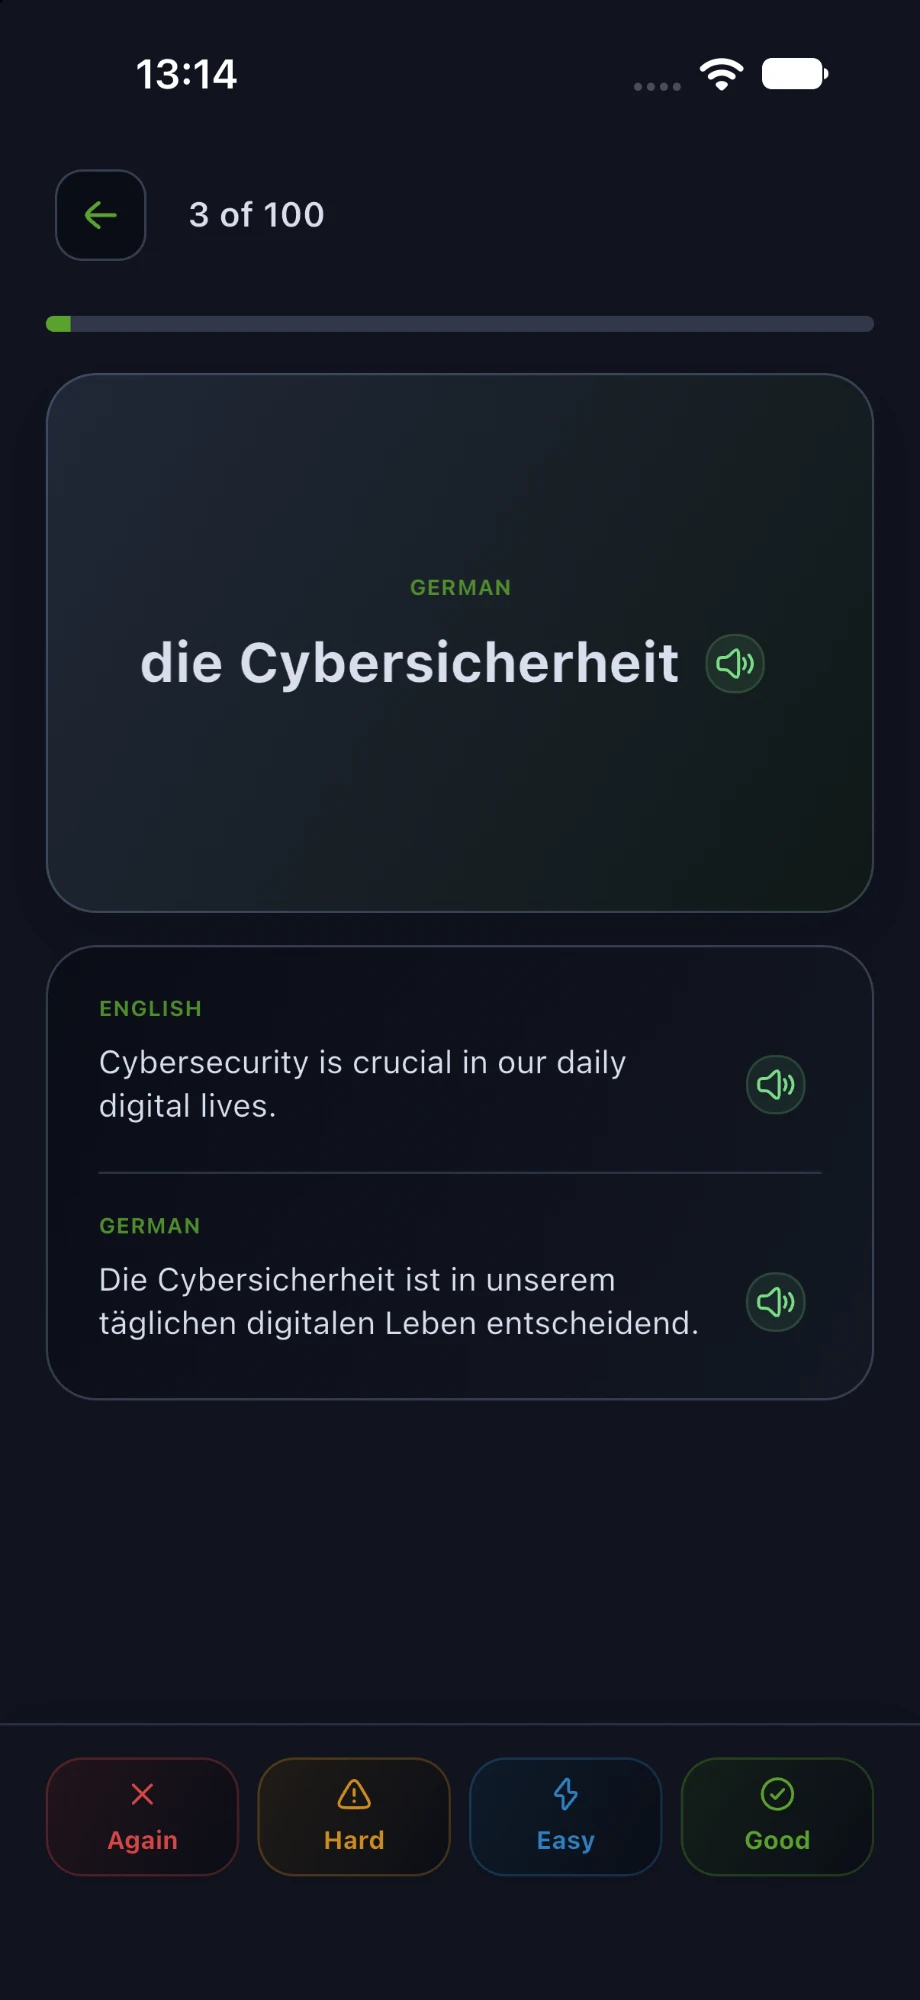
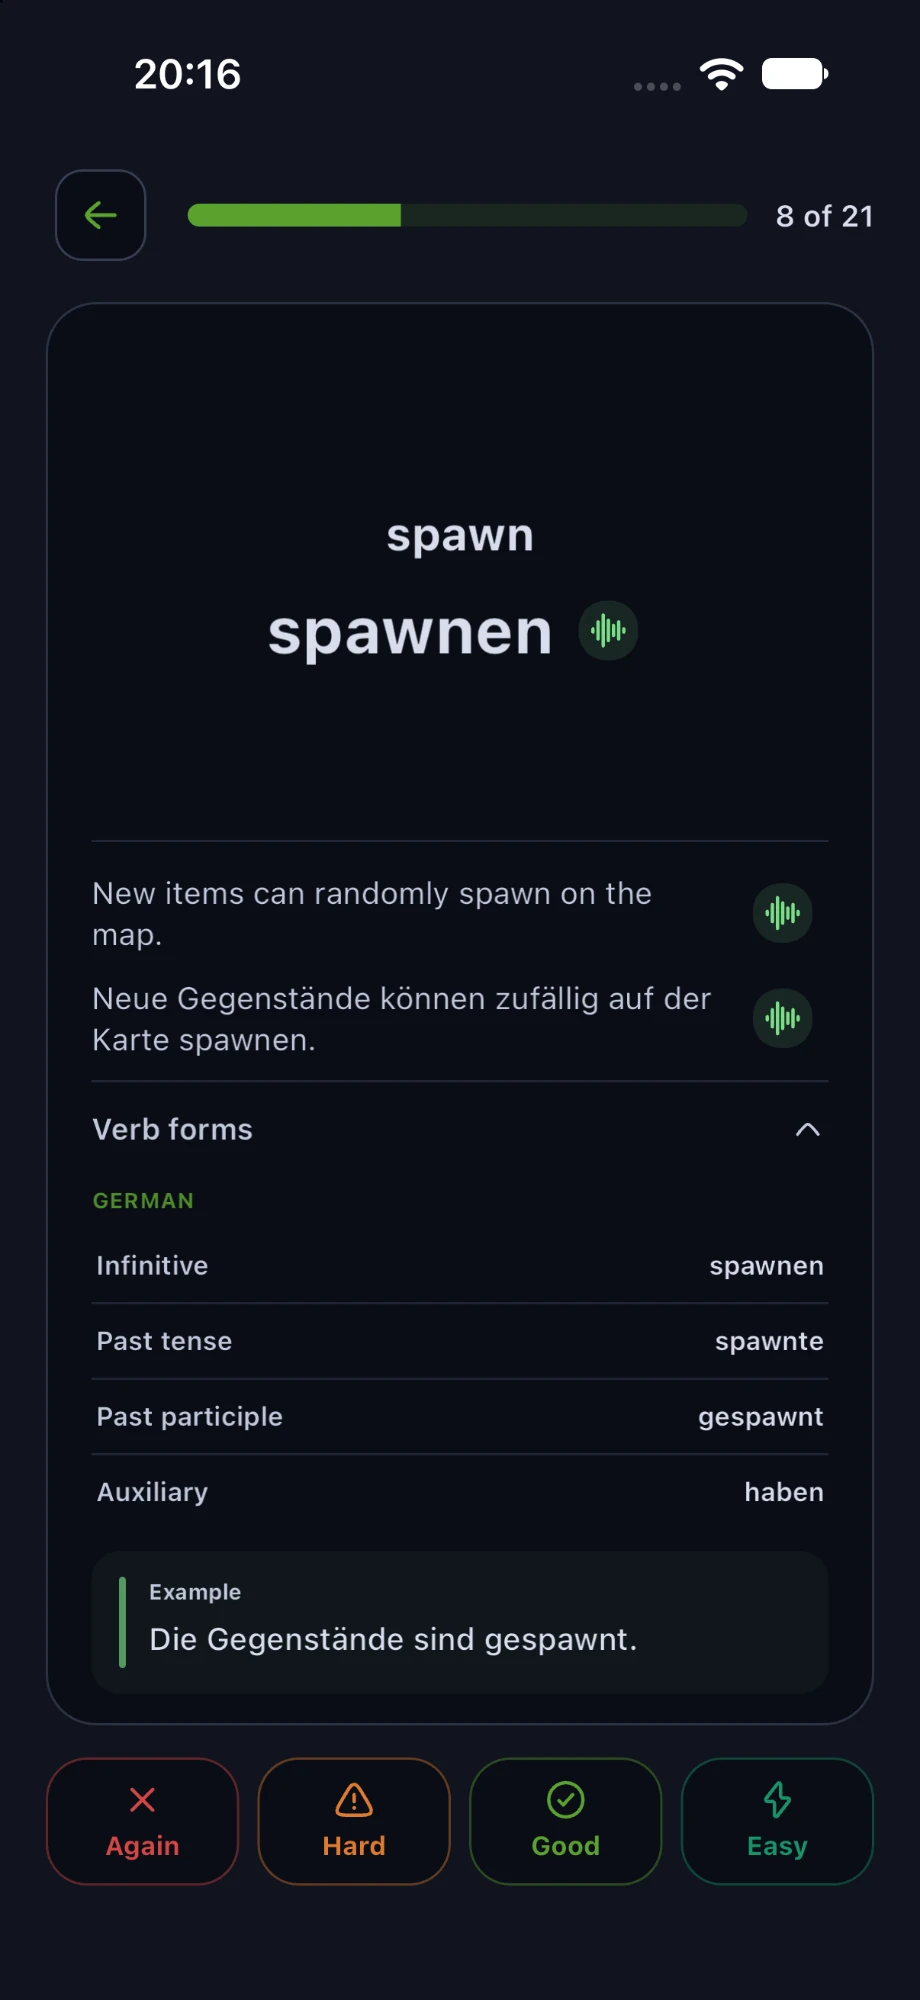
Refresh the landing page screenshots
The hero shows Collections, and the app preview shows the new word selection
and study screens plus the dashboard with a progress description.

diff --git a/src/lib/landing-content.ts b/src/lib/landing-content.ts
@@ -49,7 +49,7 @@ export const landingContent = {
       googlePlayCaption: "Pobierz z",
       previewLabel: "Podgląd aplikacji TripleTalk",
       imageAlt:
-        "Ekran lekcji w TripleTalk z liczbą fiszek, przyciskiem rozpoczęcia nauki i szybkimi akcjami",
+        "Ekran Kolekcje w TripleTalk z gotowymi zestawami fiszek według tematu i poziomu",
     },
     useCases: {
       eyebrow: "Twój materiał. Twoja lekcja.",
@@ -209,20 +209,20 @@ export const landingContent = {
             "TripleTalk AI znajduje słówka w tekście, a Ty zaznaczasz te, których chcesz się uczyć.",
         },
         {
-          image: "/assets/tripletalk-flashcard-details.webp",
-          imageAlt:
-            "Szczegóły fiszki TripleTalk z tłumaczeniem na niemiecki i hiszpański, przykładami i wymową",
-          title: "Dwa języki na jednej fiszce",
-          description:
-            "Tłumaczenia, przykładowe zdania i nagrania wymowy w wybranych przez Ciebie językach.",
-        },
-        {
           image: "/assets/tripletalk-review-session.webp",
           imageAlt:
             "Sesja nauki TripleTalk z fiszką, przykładowymi zdaniami i przyciskami oceny",
           title: "Powtarzaj we właściwym momencie",
           description:
             "Oceń, jak dobrze pamiętasz słowo, a aplikacja sama zaplanuje kolejną powtórkę.",
+        },
+        {
+          image: "/assets/tripletalk-dashboard.webp",
+          imageAlt:
+            "Dashboard TripleTalk z serią dni nauki, liczbą fiszek i wykresem z ostatnich 7 dni",
+          title: "Śledź swoje postępy",
+          description:
+            "Każdy dzień nauki przybliża Cię do celu. Zobacz, jak rośnie Twoja wiedza, i zachowaj motywację na dłużej.",
         },
       ],
     },
@@ -355,7 +355,7 @@ export const landingContent = {
       googlePlayCaption: "Get it on",
       previewLabel: "TripleTalk app preview",
       imageAlt:
-        "TripleTalk lesson screen with flashcard totals, a start button and quick actions",
+        "TripleTalk Collections screen with ready-made flashcard sets by topic and level",
     },
     useCases: {
       eyebrow: "Your material. Your lesson.",
@@ -515,20 +515,20 @@ export const landingContent = {
             "TripleTalk AI finds the words in your text, and you tick the ones you want to learn.",
         },
         {
-          image: "/assets/tripletalk-flashcard-details.webp",
-          imageAlt:
-            "TripleTalk flashcard details with German and Spanish translations, examples and pronunciation",
-          title: "Two languages on one flashcard",
-          description:
-            "Translations, example sentences and pronunciation in the languages you choose.",
-        },
-        {
           image: "/assets/tripletalk-review-session.webp",
           imageAlt:
             "TripleTalk study session with a flashcard, example sentences and rating buttons",
           title: "Review at the right moment",
           description:
             "Rate how well you remember a word, and the app schedules the next review for you.",
+        },
+        {
+          image: "/assets/tripletalk-dashboard.webp",
+          imageAlt:
+            "TripleTalk dashboard with a learning streak, flashcard totals and a chart of the last 7 days",
+          title: "Track your progress",
+          description:
+            "Every day of learning brings you closer to your goal. Watch your knowledge grow and stay motivated for longer.",
         },
       ],
     },
